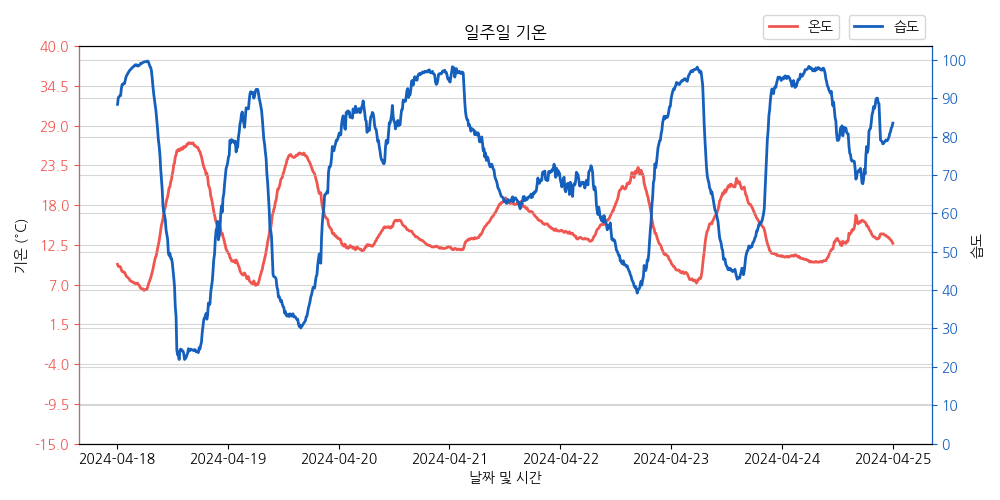
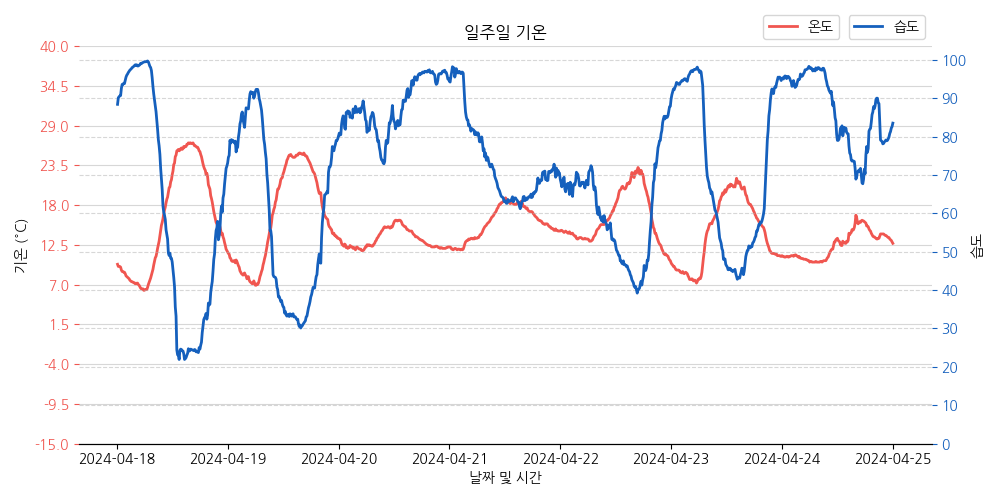
온습도 그래프 spines 수정

Changed region(s): [[0.062, 0.09, 0.961, 0.12]]

diff --git a/hw03/weather_visual.py b/hw03/weather_visual.py
@@ -102,22 +102,31 @@ def draw_graph():
     fig, ax1 = plt.subplots(figsize=(10,5))
 
     ax1.plot(df['datetime'], df['temp'], color = '#f05650', lw=2, label='온도')
-    ax1.grid(axis="y", alpha=0.5,)
+    ax1.grid(axis="y", alpha=0.5)
     ax1.set_title("일주일 기온")
     ax1.set_xlabel('날짜 및 시간')
     ax1.set_ylabel('기온 (°C)')
+    ax1.spines['left'].set_visible(False)
+    ax1.spines['right'].set_visible(False)
+    ax1.spines['top'].set_visible(False)
     ax1.tick_params(axis='y', color='#f05650',labelcolor='#f05650')
     ax1.set_yticks(np.arange(-15, 45.5, 5.5))
+    # ax1.set_yticks(np.linspace(-15, 45, 5))
 
     # 습도 그래프 그리기
     ax2 = ax1.twinx()
     ax2.plot(df['datetime'],df['hum'], color='#1560BD',lw=2, label='습도')
-    ax2.grid(axis="y",alpha=0.5)
+    ax2.grid(axis="y",alpha=0.5, linestyle = '--')
     ax2.set_ylabel('습도')
-    ax2.spines['left'].set_color('#f05650')
-    ax2.spines['right'].set_color('#1560BD')
+    # ax2.spines['left'].set_color('#f05650')
+    # ax2.spines['right'].set_color('#1560BD')
+    ax2.spines['left'].set_visible(False)
+    ax2.spines['right'].set_visible(False)
+    ax2.spines['top'].set_visible(False)
     ax2.tick_params(axis='y', color='#1560BD', labelcolor='#1560BD')
     ax2.set_yticks(np.arange(0, 110, 10))
+    # ax2.set_yticks(np.linspace(0, 100, 5))
+
 
     # 범례
     ax1.legend(loc='lower right',bbox_to_anchor=(0.9,1.0))
